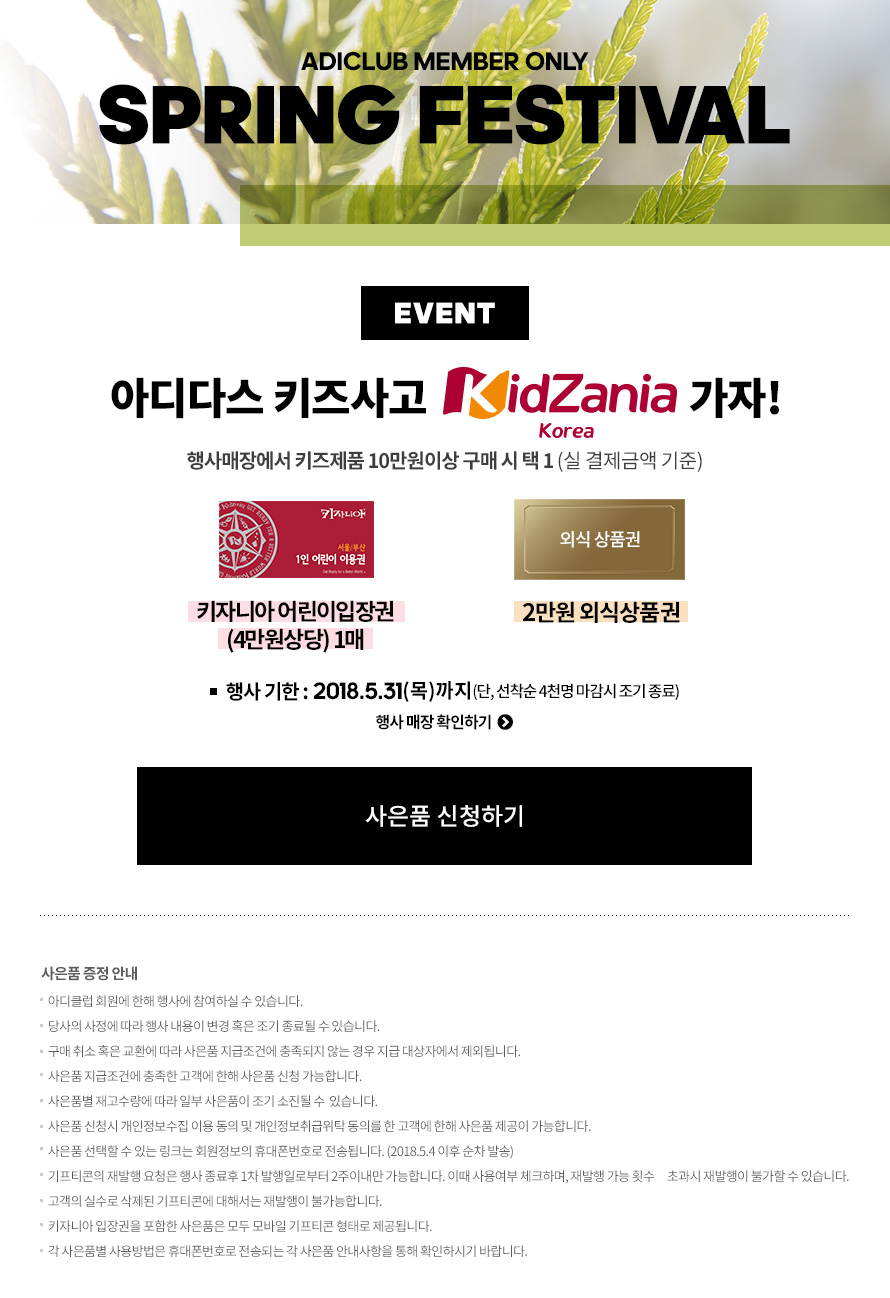
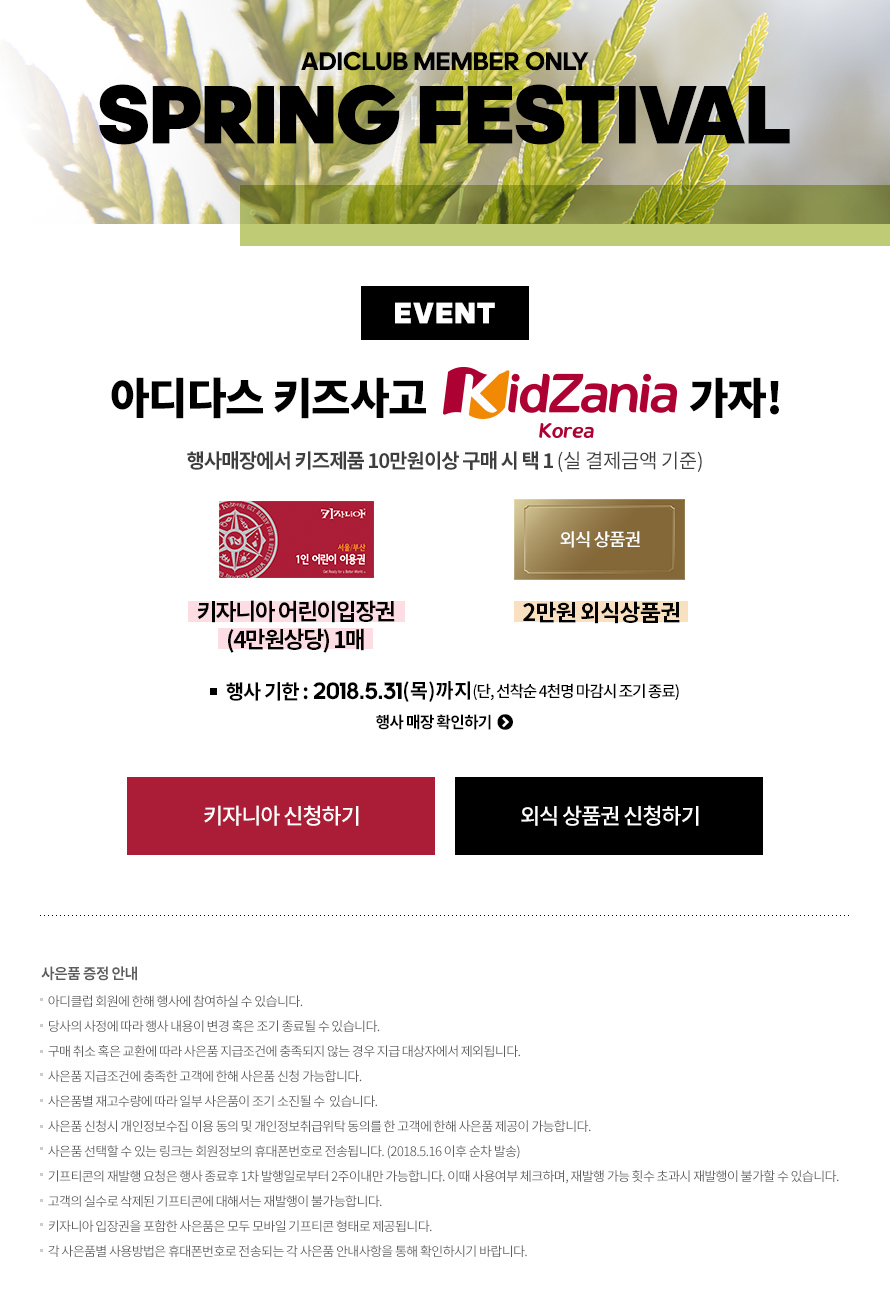
키자니아 수정

diff --git a/app/html/adidas/campaign/4405/index.html b/app/html/adidas/campaign/4405/index.html
@@ -1300,9 +1300,11 @@
                                 <div style="position:relative">
 									<div class="inn">
 										<img src="http://image.adidas.co.kr/upload/campaign/adidas/4405/event-02.jpg" alt="" usemap="#map1">
+										
 										<map name="map1" id="map1">
 											<area shape="rect" coords="370,708,516,734" href="http://shop.adidas.co.kr/upload/storelist/index.html?spring_evt02" alt="행사 매장 확인하기" target="_blank">											
-											<area shape="rect" coords="138,768,750,862" href="#" alt="신청하기">											
+											<area shape="rect" coords="129,778,432,854" href="#" alt="키자니아 신청하기">											
+											<area shape="rect" coords="456,778,760,854" href="#" alt="외식 상품권 신청하기">											
 										</map>
 									</div>
 								</div>
